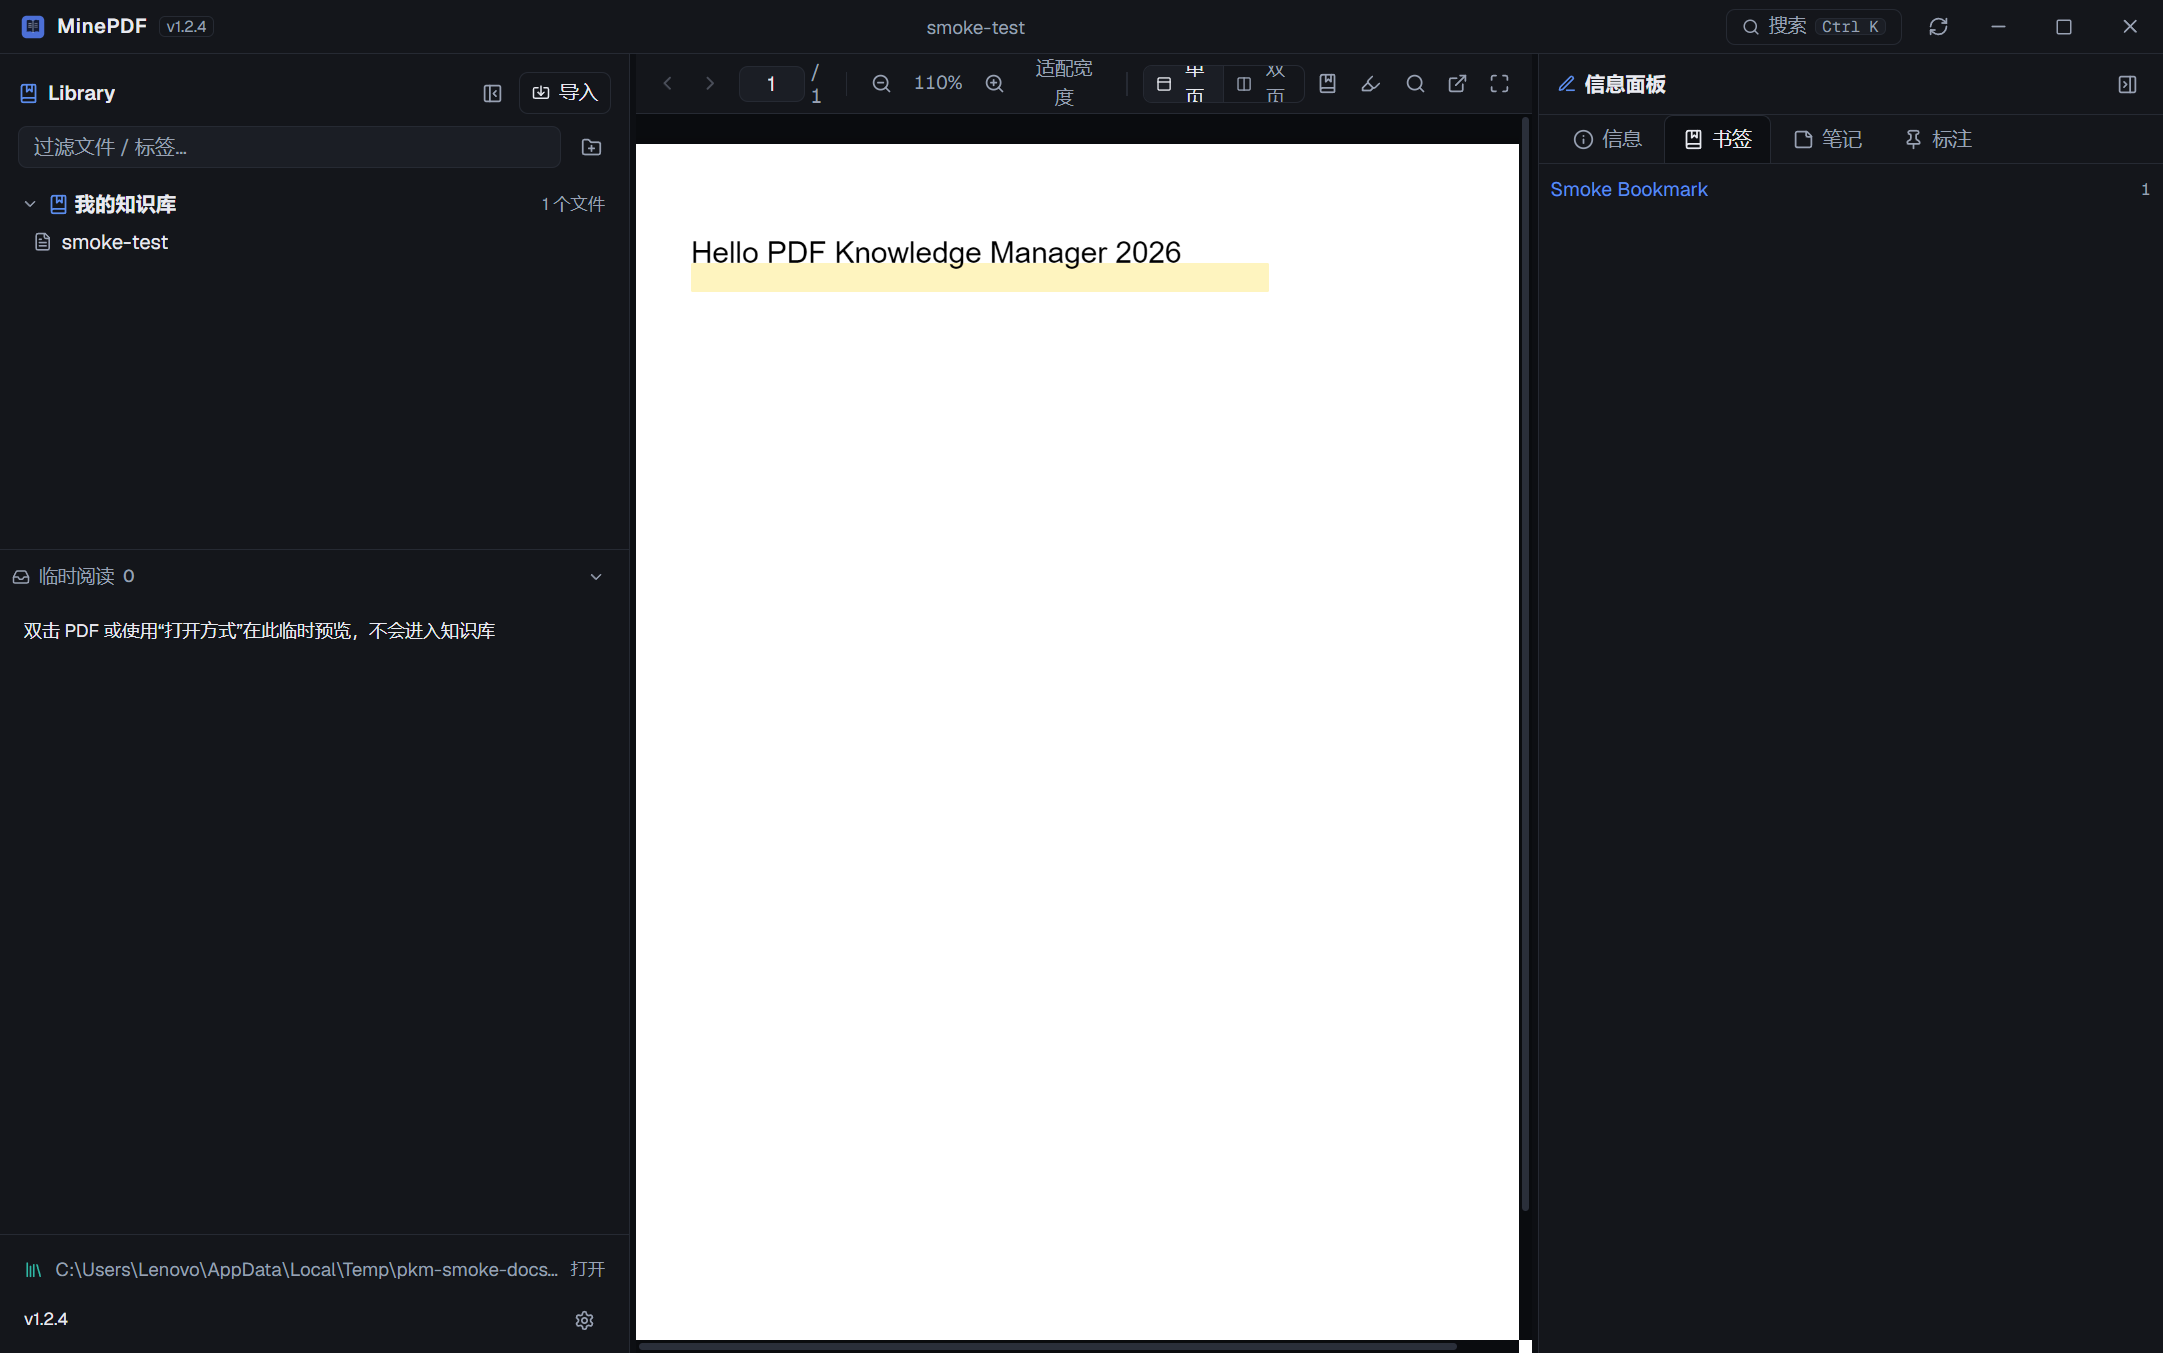
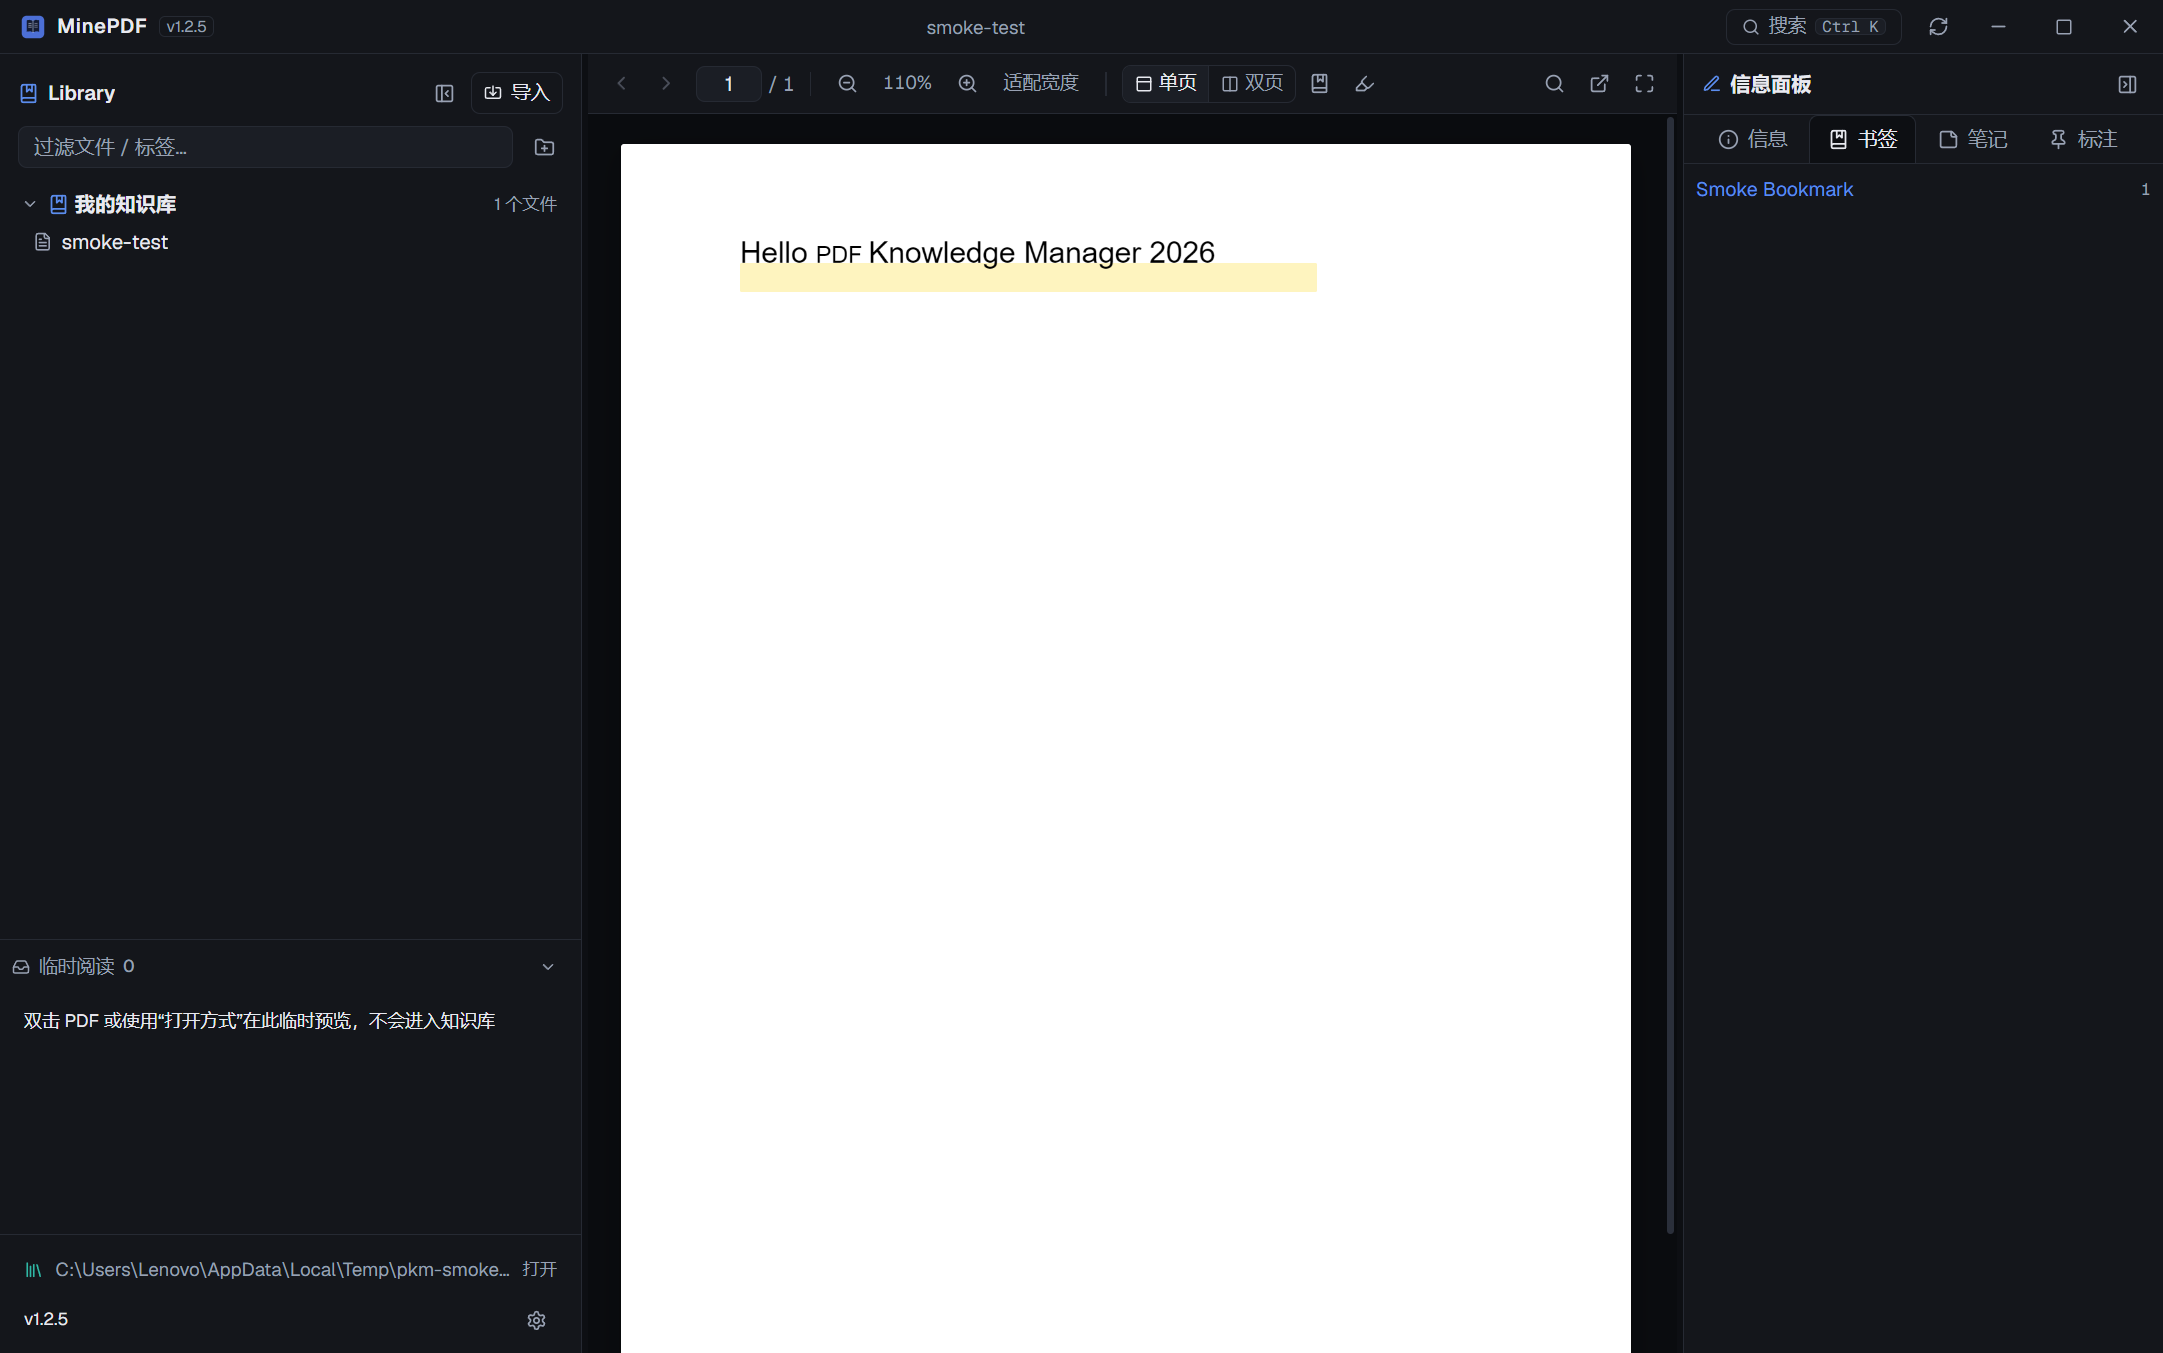
release: v1.2.6 - 高亮整块合并+下载镜像加速+截图选区原色

diff --git a/electron/services/updater.ts b/electron/services/updater.ts
@@ -73,47 +73,123 @@ export async function checkForUpdates(): Promise<UpdateResult> {
 }
 
 /**
- * 软件内下载更新包：流式写入临时目录并回报进度，返回本地文件路径。
- * 下载地址是 GitHub Release 附件直链（跟随重定向）。
+ * 软件内下载更新包：自动选择直连 / 国内镜像里最快的源，流式写入并回报进度；
+ * 连接中断时自动断点续传重试一次。返回本地文件路径。
  */
+
+const UA =
+  'Mozilla/5.0 (Windows NT 10.0; Win64; x64) AppleWebKit/537.36 (KHTML, like Gecko) Chrome/126.0 Safari/537.36';
+
+/** 国内可用的 GitHub Release 加速镜像前缀（直链前面直接拼接即可） */
+const MIRROR_PREFIXES = ['https://ghproxy.net/', 'https://ghfast.top/', 'https://gh-proxy.com/'];
+
+/** 直连 + 各镜像的候选下载地址 */
+function mirrorCandidates(url: string): string[] {
+  const list = [url];
+  if (url.startsWith('https://github.com/')) {
+    for (const p of MIRROR_PREFIXES) list.push(`${p}${url}`);
+  }
+  return [...new Set(list)];
+}
+
+/** 探测一个候选源的响应耗时（只取 1 字节），失败返回 null */
+async function probeUrl(url: string, timeoutMs = 5000): Promise<number | null> {
+  const ctrl = new AbortController();
+  const timer = setTimeout(() => ctrl.abort(), timeoutMs);
+  const t0 = Date.now();
+  try {
+    const res = await net.fetch(url, {
+      method: 'GET',
+      headers: { 'User-Agent': UA, Range: 'bytes=0-0' },
+      signal: ctrl.signal,
+    });
+    if (res.ok) {
+      await res.body?.cancel();
+      return Date.now() - t0;
+    }
+    return null;
+  } catch {
+    return null;
+  } finally {
+    clearTimeout(timer);
+  }
+}
+
+/** 并行探测直连和镜像，选响应最快的源；全部失败则回退直连 */
+async function pickFastestSource(url: string): Promise<string> {
+  const candidates = mirrorCandidates(url);
+  const results = await Promise.all(candidates.map((u) => probeUrl(u)));
+  let best: string | null = null;
+  let bestMs = Infinity;
+  for (let i = 0; i < candidates.length; i++) {
+    const ms = results[i];
+    if (ms != null && ms < bestMs) {
+      bestMs = ms;
+      best = candidates[i];
+    }
+  }
+  return best ?? url;
+}
+
 export async function downloadUpdate(
   url: string,
   onProgress: (percent: number) => void,
 ): Promise<{ filePath: string; size: number }> {
-  const parsed = new URL(url);
+  const source = await pickFastestSource(url);
+  const parsed = new URL(source);
   const filename =
     decodeURIComponent(path.basename(parsed.pathname)).replace(/[<>:"/\\|?*]/g, '_') ||
     'MinePDF Setup.exe';
   const dir = path.join(app.getPath('temp'), 'minepdf-update');
   fs.mkdirSync(dir, { recursive: true });
   const filePath = path.join(dir, filename);
-  const res = await net.fetch(url, {
-    headers: {
-      'User-Agent':
-        'Mozilla/5.0 (Windows NT 10.0; Win64; x64) AppleWebKit/537.36 (KHTML, like Gecko) Chrome/126.0 Safari/537.36',
-    },
-  });
-  if (!res.ok) throw new Error(`下载失败：HTTP ${res.status}`);
-  const total = Number(res.headers.get('content-length') ?? 0);
-  const reader = res.body?.getReader();
-  if (!reader) throw new Error('无法读取下载内容');
-  const file = fs.createWriteStream(filePath);
+
+  // 上次中断留下的半成品可用于续传
   let received = 0;
   try {
-    for (;;) {
-      const { done, value } = await reader.read();
-      if (done) break;
-      if (value) {
-        await new Promise<void>((resolve, reject) => {
-          file.write(Buffer.from(value), (err) => (err ? reject(err) : resolve()));
-        });
-        received += value.length;
-        if (total > 0) onProgress(Math.min(99, Math.round((received / total) * 100)));
-      }
-    }
-  } finally {
-    await new Promise<void>((resolve) => file.end(() => resolve()));
+    if (fs.existsSync(filePath)) received = fs.statSync(filePath).size;
+  } catch {
+    received = 0;
   }
-  onProgress(100);
-  return { filePath, size: received };
+
+  for (let attempt = 1; attempt <= 2; attempt++) {
+    try {
+      const headers: Record<string, string> = { 'User-Agent': UA };
+      if (received > 0) headers.Range = `bytes=${received}-`;
+      const res = await net.fetch(source, { headers });
+      if (!res.ok) throw new Error(`下载失败：HTTP ${res.status}`);
+      // 服务器支持续传时 content-range 形如 bytes 0-xxx/total
+      const rangeOk = received > 0 && /^bytes /.test(String(res.headers.get('content-range') ?? ''));
+      if (!rangeOk && received > 0) {
+        // 镜像不支持 Range，则完整重下，避免拼出损坏文件
+        received = 0;
+      }
+      const remaining = Number(res.headers.get('content-length') ?? 0);
+      const total = received + remaining;
+      const reader = res.body?.getReader();
+      if (!reader) throw new Error('无法读取下载内容');
+      const file = fs.createWriteStream(filePath, { flags: received > 0 ? 'a' : 'w' });
+      try {
+        for (;;) {
+          const { done, value } = await reader.read();
+          if (done) break;
+          if (value) {
+            await new Promise<void>((resolve, reject) => {
+              file.write(Buffer.from(value), (err) => (err ? reject(err) : resolve()));
+            });
+            received += value.length;
+            if (total > 0) onProgress(Math.min(99, Math.round((received / total) * 100)));
+          }
+        }
+      } finally {
+        await new Promise<void>((resolve) => file.end(() => resolve()));
+      }
+      onProgress(100);
+      return { filePath, size: received };
+    } catch (err) {
+      if (attempt >= 2) throw err instanceof Error ? err : new Error(String(err));
+      // 中断后带着已下载字节数重试（续传）
+    }
+  }
+  throw new Error('下载失败');
 }

diff --git a/src/components/Viewer/PdfViewer.tsx b/src/components/Viewer/PdfViewer.tsx
@@ -491,6 +491,10 @@ export function PdfViewer({ pdf, onMissing }: PdfViewerProps) {
       if (!quads.length) return;
       byPage.set(page, [...(byPage.get(page) ?? []), ...quads]);
     }
+    // 同一行的碎片合并成整块，避免“三个字被拆成三块”
+    for (const [page, quads] of byPage) {
+      byPage.set(page, mergeLineQuads(quads));
+    }
 
     void (async () => {
       try {
@@ -745,6 +749,33 @@ export function PdfViewer({ pdf, onMissing }: PdfViewerProps) {
   );
 }
 
+/**
+ * 把同一行的多个小矩形合并成一个连续高亮块（类似 Edge 的选词效果）。
+ * PDF.js 文本层是逐字绝对定位的，直接取 selection 会把“三个字”拆成三块；
+ * 这里按垂直重叠分组，每组取外接矩形，整行/整块只高亮一次。
+ */
+function mergeLineQuads(quads: Quad[]): Quad[] {
+  if (quads.length < 2) return quads;
+  const sorted = [...quads].sort((a, b) => a.y - b.y || a.x - b.x);
+  const groups: Quad[][] = [];
+  for (const q of sorted) {
+    const g = groups.find((grp) => {
+      const gMinY = Math.min(...grp.map((x) => x.y));
+      const gMaxY = Math.max(...grp.map((x) => x.y + x.h));
+      return q.y < gMaxY && q.y + q.h > gMinY;
+    });
+    if (g) g.push(q);
+    else groups.push([q]);
+  }
+  return groups.map((grp) => {
+    const minX = Math.min(...grp.map((x) => x.x));
+    const minY = Math.min(...grp.map((x) => x.y));
+    const maxX = Math.max(...grp.map((x) => x.x + x.w));
+    const maxY = Math.max(...grp.map((x) => x.y + x.h));
+    return { x: minX, y: minY, w: maxX - minX, h: maxY - minY };
+  });
+}
+
 /** 将阅读区选区截成 PNG：跨页自动拼接（高清画布像素） */
 function captureRegion(
   container: HTMLElement,
@@ -856,16 +887,6 @@ function ScreenshotOverlay({
     return () => window.removeEventListener('keydown', onKey);
   }, [onClose]);
 
-  const copy = async () => {
-    if (!dataUrl) return;
-    try {
-      const blob = await (await fetch(dataUrl)).blob();
-      await navigator.clipboard.write([new ClipboardItem({ 'image/png': blob })]);
-    } catch {
-      /* ignore */
-    }
-  };
-
   const barLeft = rect
     ? Math.max(8, Math.min(rect.x + rect.w / 2 - 110, (containerRef.current?.clientWidth ?? 300) - 240))
     : 8;
@@ -875,7 +896,7 @@ function ScreenshotOverlay({
 
   return (
     <div
-      className="absolute inset-0 z-40 cursor-crosshair bg-black/35"
+      className={`absolute inset-0 z-40 cursor-crosshair ${rect ? '' : 'bg-black/35'}`}
       onMouseDown={(e) => {
         // 只有点击遮罩背景本身才开始框选；操作条按钮不受影响
         if (e.target !== e.currentTarget) return;
@@ -906,8 +927,15 @@ function ScreenshotOverlay({
       </button>
       {rect && !dataUrl && rect.w > 0 && rect.h > 0 && (
         <div
-          className="absolute border border-app-accent bg-app-accent/20"
-          style={{ left: rect.x, top: rect.y, width: rect.w, height: rect.h }}
+          className="absolute border-2 border-app-accent"
+          style={{
+            left: rect.x,
+            top: rect.y,
+            width: rect.w,
+            height: rect.h,
+            // 选中区域恢复原色：只有框外被压暗
+            boxShadow: '0 0 0 100vmax rgba(0,0,0,0.35)',
+          }}
         />
       )}
       {dataUrl && (
@@ -921,12 +949,6 @@ function ScreenshotOverlay({
             onClick={onClose}
           >
             {t('note.screenshotExit')}
-          </button>
-          <button
-            className="rounded-md px-2.5 py-1 text-[11px] text-app-muted transition-colors hover:bg-app-panel2 hover:text-app-text"
-            onClick={() => void copy()}
-          >
-            {t('note.screenshotCopy')}
           </button>
           <button
             className="rounded-md bg-app-accent px-2.5 py-1 text-[11px] text-white transition-colors hover:brightness-110"

diff --git a/electron/main.ts b/electron/main.ts
@@ -52,7 +52,9 @@ function buildTestPdf(): string {
   const objects: Record<number, string> = {};
   objects[1] = '1 0 obj\n<< /Type /Catalog /Pages 2 0 R /Outlines 6 0 R >>\nendobj\n';
   objects[2] = '2 0 obj\n<< /Type /Pages /Kids [3 0 R] /Count 1 >>\nendobj\n';
-  const content = 'BT /F1 18 Tf 72 720 Td (Hello PDF Knowledge Manager 2026) Tj ET\n';
+  // 三个独立文本段，让 PDF.js 文本层生成多个 span，便于验证高亮合并
+  const content =
+    'BT /F1 18 Tf 72 720 Td (Hello ) Tj /F1 14 Tf (PDF ) Tj /F1 18 Tf (Knowledge Manager 2026) Tj ET\n';
   objects[4] = `4 0 obj\n<< /Length ${Buffer.byteLength(content, 'latin1')} >>\nstream\n${content}endstream\nendobj\n`;
   objects[3] =
     '3 0 obj\n<< /Type /Page /Parent 2 0 R /MediaBox [0 0 612 792] /Contents 4 0 R /Resources << /Font << /F1 5 0 R >> >> /Annots [8 0 R] >>\nendobj\n';
@@ -543,6 +545,38 @@ async function createMainWindow(): Promise<BrowserWindow> {
                   })()
                 `);
                 console.log('[capture] shotDiag', JSON.stringify(shotDiag));
+                const hlMergeDiag = await win.webContents.executeJavaScript(`
+                  (async () => {
+                    const snap = await window.pkm.getSnapshot();
+                    const a = snap.pdfs.find((p) => p.filename === 'smoke-test.pdf');
+                    if (!a) return { pdf: false };
+                    window.__pkmOpenPdf(a.id);
+                    await new Promise((r) => setTimeout(r, 2000));
+                    const hlBtn = [...document.querySelectorAll('button')].find((b) => (b.getAttribute('title') || '').includes('高亮模式'));
+                    if (!hlBtn) return { hlBtn: false };
+                    hlBtn.click();
+                    await new Promise((r) => setTimeout(r, 150));
+                    const spans = [...document.querySelectorAll('.textLayer span')].filter((s) => (s.textContent || '').trim());
+                    if (spans.length < 3) return { spans: spans.length };
+                    const sel = window.getSelection();
+                    sel.removeAllRanges();
+                    const range = document.createRange();
+                    range.setStart(spans[0].firstChild, 0);
+                    range.setEnd(spans[2].firstChild, spans[2].textContent.length);
+                    sel.addRange(range);
+                    const before = await window.pkm.listAnnotations(a.id);
+                    document.querySelector('[data-pan-scroll]').dispatchEvent(new MouseEvent('mouseup', { bubbles: true }));
+                    await new Promise((r) => setTimeout(r, 900));
+                    const after = await window.pkm.listAnnotations(a.id);
+                    const added = after.filter((x) => !before.some((y) => y.id === x.id));
+                    let quads = null;
+                    if (added.length === 1) {
+                      try { quads = JSON.parse(added[0].position); } catch { quads = null; }
+                    }
+                    return { hlBtn: true, spans: spans.length, added: added.length, quads: quads ? quads.length : null, oneBlock: !!quads && quads.length === 1 };
+                  })()
+                `);
+                console.log('[capture] hlMergeDiag', JSON.stringify(hlMergeDiag));
               } catch (err) {
                 console.error('[capture] failed', err);
               }

diff --git a/src/i18n.ts b/src/i18n.ts
@@ -202,7 +202,6 @@ const zh: Dict = {
     'note.screenshot': '截图',
     'note.screenshotHint': '在阅读区拖拽框选区域（可跨页），支持复制或直接插入笔记',
   'note.screenshotExit': '退出',
-  'note.screenshotCopy': '复制图片',
   'note.screenshotInsert': '插入笔记',
 
   'settings.back': '返回知识库',
@@ -500,7 +499,6 @@ const en: Dict = {
     'note.screenshot': 'Screenshot',
     'note.screenshotHint': 'Drag to select a region (across pages if needed), then copy it or insert it into the note',
   'note.screenshotExit': 'Exit',
-  'note.screenshotCopy': 'Copy image',
   'note.screenshotInsert': 'Insert into note',
 
   'settings.back': 'Back to library',
